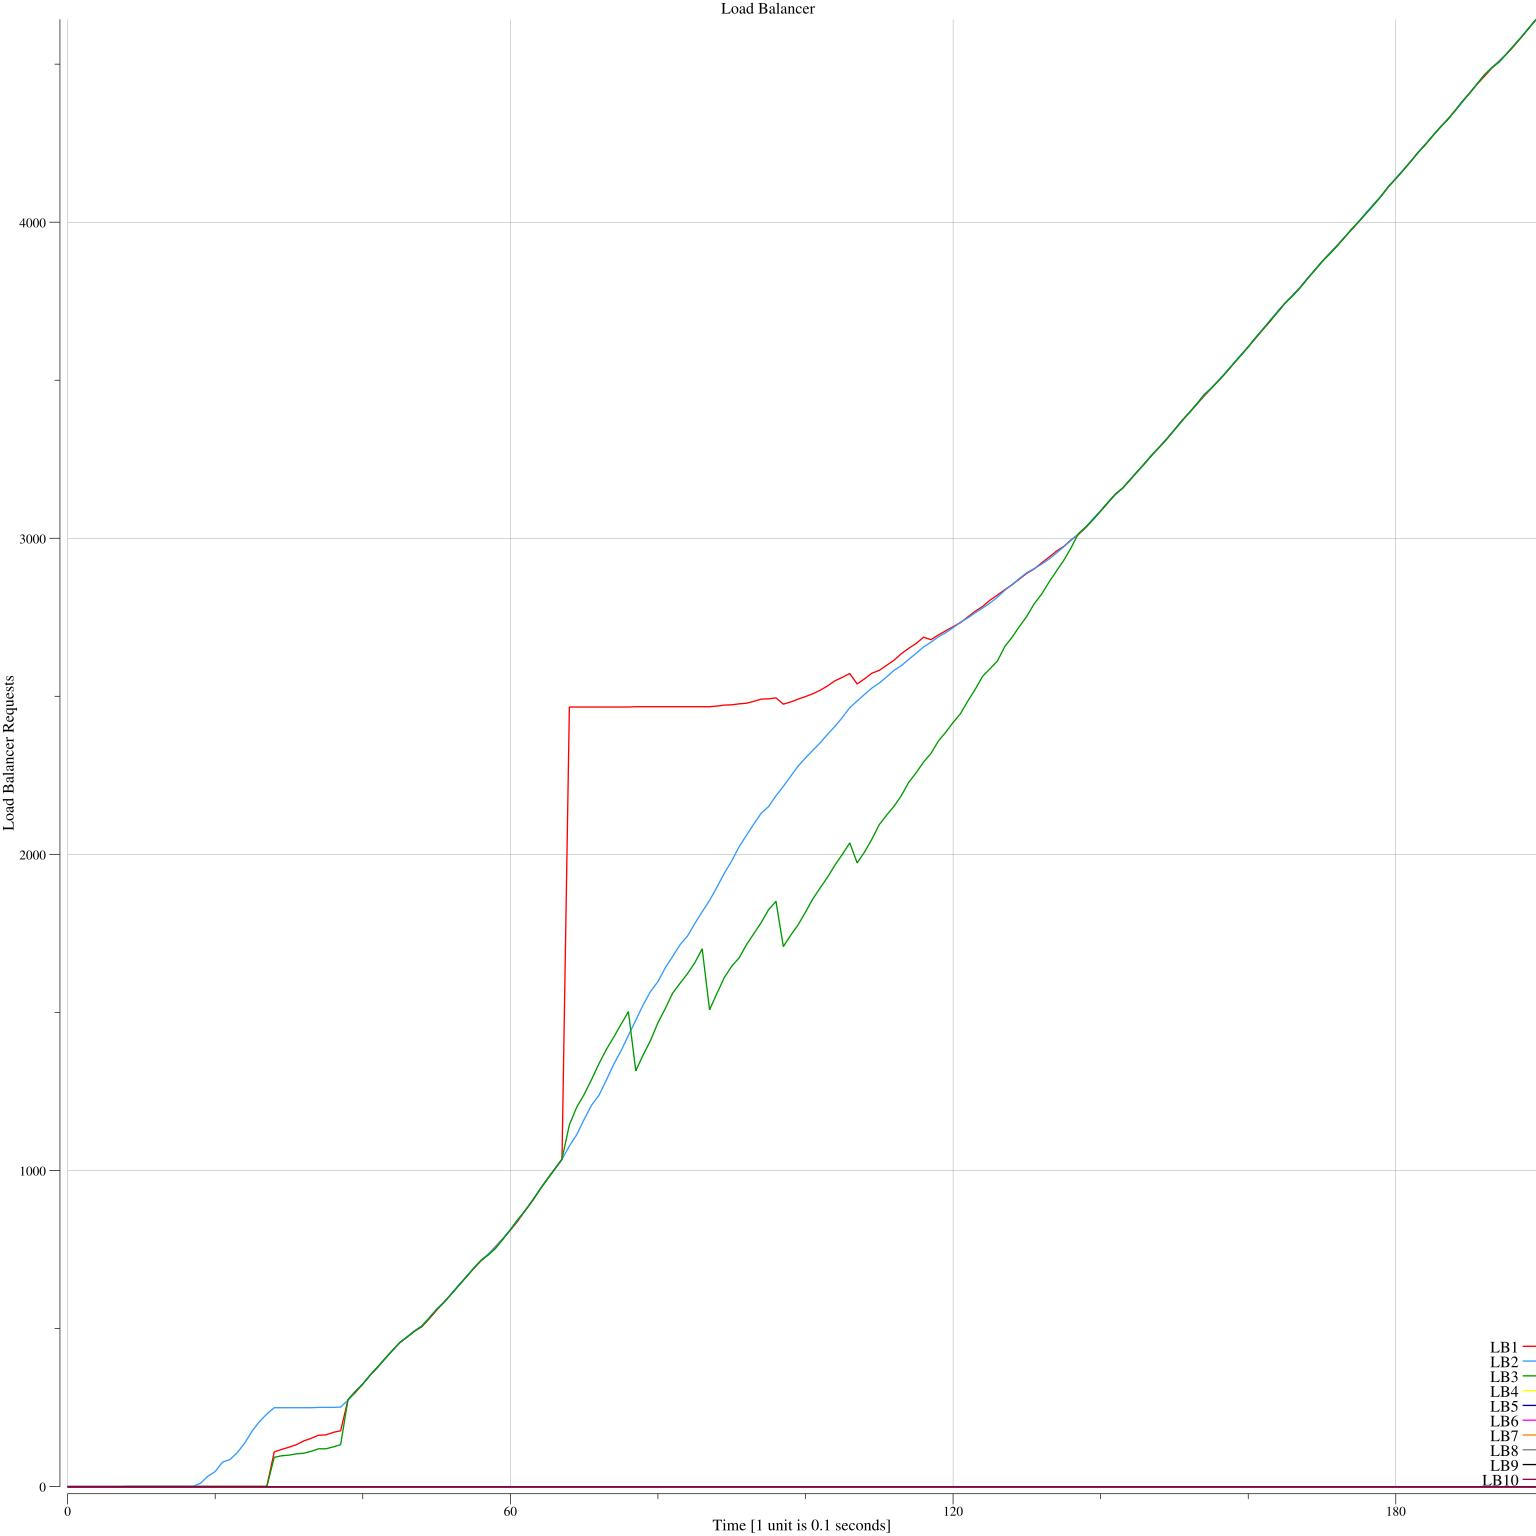
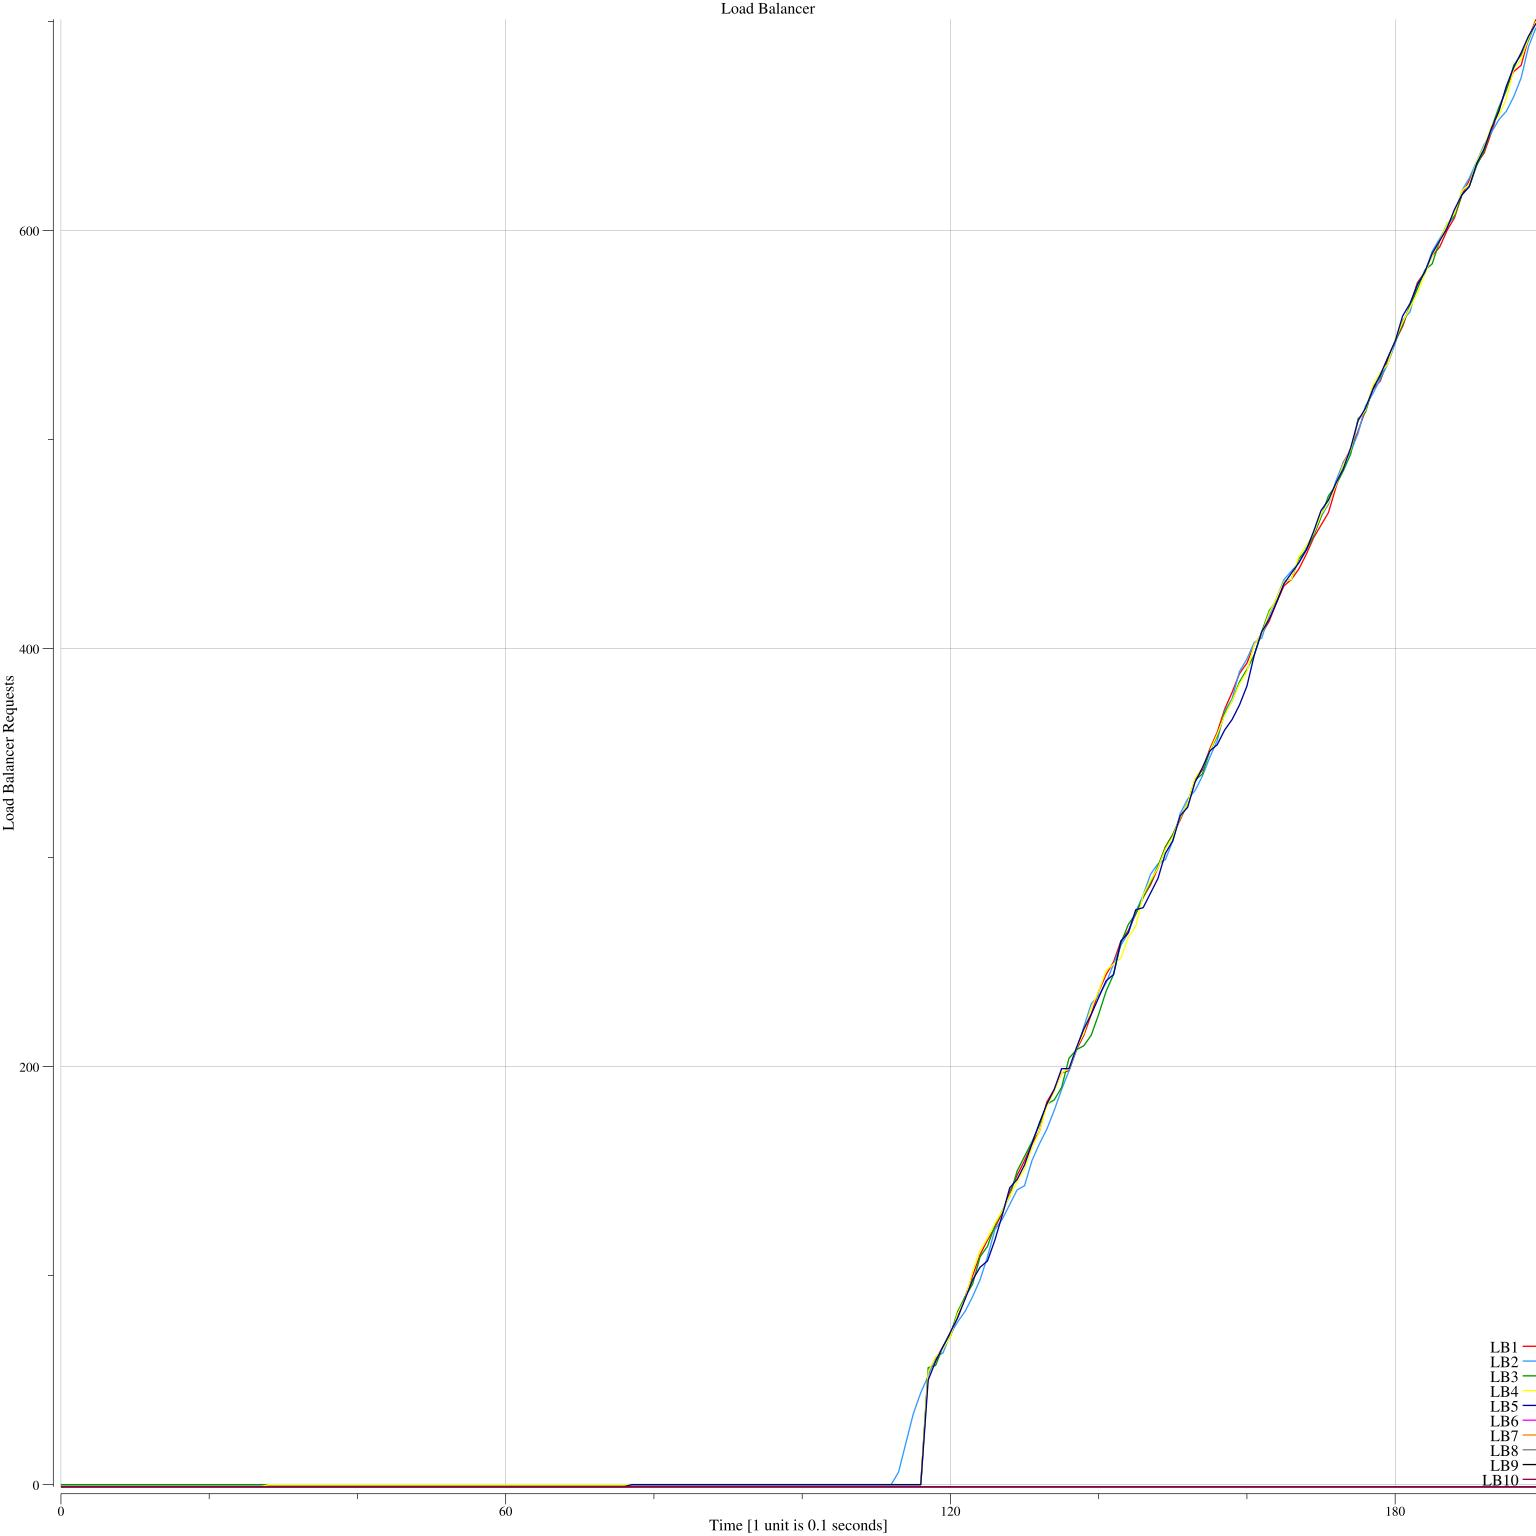
Not working:Test Case 6- LB Down

diff --git a/loadbalancer.go b/loadbalancer.go
@@ -36,7 +36,6 @@ var glb_server1 [][]int
 var glb_server2 [][]int
 var graphCounter int
 
-var timeSpike time.Time
 
 type LoadBalancer struct {
 	id         int    /*Identification of load balancer*/
@@ -284,7 +283,7 @@ func (lb *LoadBalancer) drawGraph() {
 	p.Add(plotter.NewGrid())
 
 	fmt.Println("Serverloads are ................\n", glb_server1)
-	for i := 0; i < 10; i++ {
+	for i := 0; i <10; i++ {
 		temp := i + 1
 		for j := 0; j < numPeriods; j++ {
 			pts[j].X = float64(1 * j)
@@ -980,8 +979,7 @@ func min(a, b int) int {
 }
 
 func counter_poller(lb *LoadBalancer) {
-	timeSpike = time.Now()
-	flag := 0
+
 	for {
 		if graphCounter > (1000 - 1) {
 			break
@@ -989,17 +987,7 @@ func counter_poller(lb *LoadBalancer) {
 		time.Sleep(time.Millisecond * 100)
 		lock.Lock()
 
-		diff := time.Now().Sub(timeSpike)
-		if diff.Seconds() > 15 && flag == 0 && lb.id==lb.primary{ //TODO: Find a timeout
-			fmt.Println("Lbid and primary is",lb.id,lb.primary)
-			lb.curLoad1[lb.id] *= 3
-			//lb.load1[0] = 2 * lb.load1[0]
-			fmt.Println("******************************")
-			fmt.Println("SPIKING***********************")
-			fmt.Println("******************************")
-			flag = 1
-		}
-
+		
 		//glb_loadbalancer1 = append(glb_loadbalancer1, lb.curLoad1)
 		//glb_loadbalancer2 = append(glb_loadbalancer2, lb.curLoad2)
 		//glb_server1 = append(glb_server1, lb.load1)
